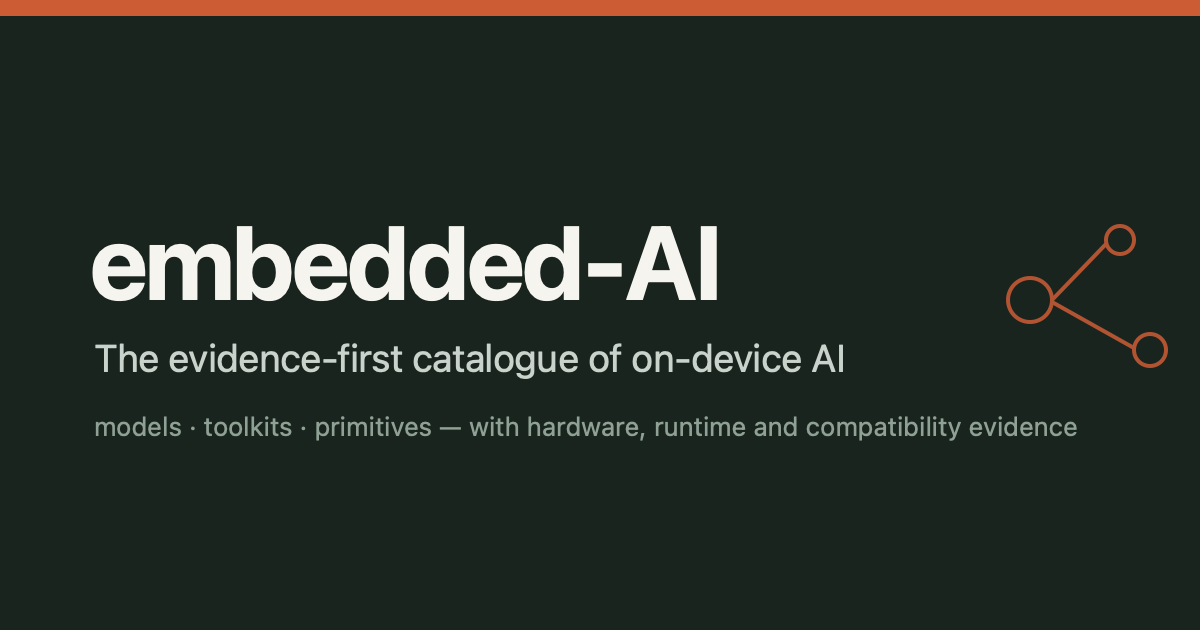
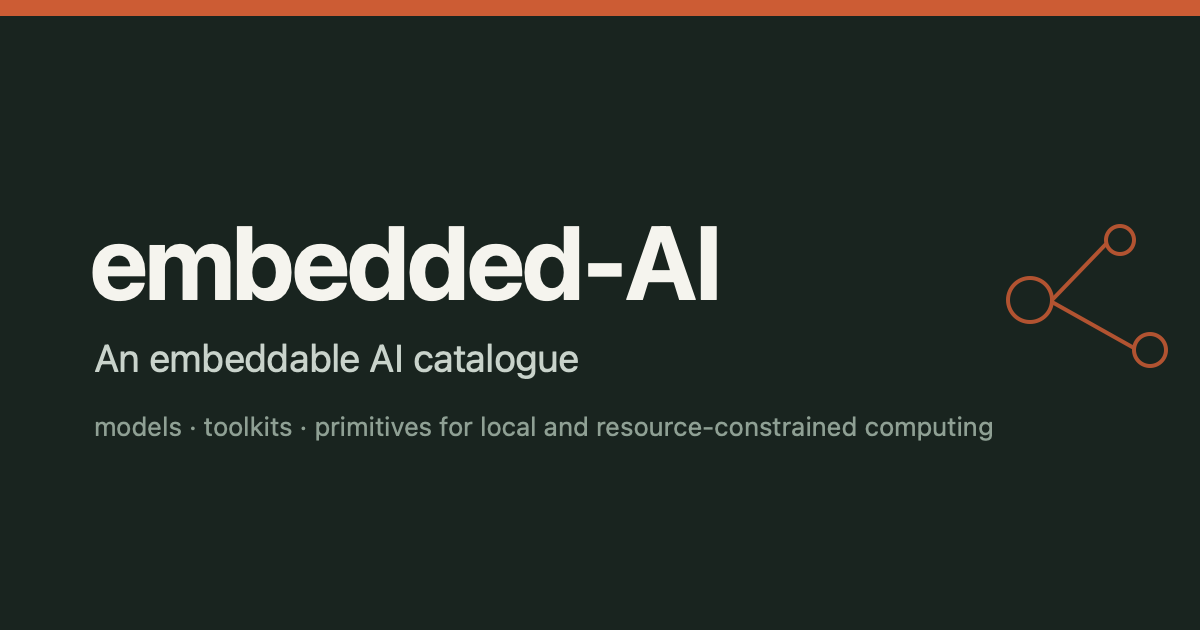
docs(site): reframe as an embeddable AI catalogue
- Remove the README banner and the 'evidence/hardware-validated' framing and
  the reproduced badge; lead with a plain 'embeddable AI catalogue' tagline.
- Open the live link in a new tab (target=_blank, rel=noopener).
- Neutralise the site meta description, JSON-LD, llms.txt summary and the OG
  card text.

Changed region(s): [[0.0617, 0.5429, 0.4625, 0.6032], [0.37, 0.6635, 0.8942, 0.6937], [0.4933, 0.5429, 0.7092, 0.6032]]

diff --git a/site/index.html b/site/index.html
@@ -1,7 +1,7 @@
 <!doctype html>
 <html lang="en"><head><meta charset="utf-8"><meta name="viewport" content="width=device-width,initial-scale=1">
 <title>embedded-AI — catalogue of on-device and embedded AI models</title>
-<meta name="description" content="An evidence-first, machine-readable catalogue of on-device and embedded AI models, toolkits and non-AI primitives across dozens of domains, with runtime, licence and compatibility evidence. Unknown values stay unknown.">
+<meta name="description" content="A machine-readable catalogue of embeddable AI: models, toolkits and non-AI primitives for local and resource-constrained computing. Unknown values stay unknown.">
 <meta name="robots" content="index,follow,max-snippet:-1,max-image-preview:large">
 <link rel="canonical" href="https://powerpuff-kitty.github.io/embedded-AI/">
 <link rel="alternate" type="application/json" href="data/catalog.json" title="Catalogue JSON">
@@ -23,7 +23,7 @@
 <meta http-equiv="Content-Security-Policy" content="default-src 'self'; script-src 'self'; style-src 'self'; connect-src 'self'; img-src 'self' data:; object-src 'none'; base-uri 'none'">
 <link rel="icon" href="logo.svg" type="image/svg+xml">
 <link rel="stylesheet" href="style.css">
-<script type="application/ld+json">{"@context":"https://schema.org","@graph":[{"@type":"WebSite","@id":"https://powerpuff-kitty.github.io/embedded-AI/#website","url":"https://powerpuff-kitty.github.io/embedded-AI/","name":"embedded-AI","description":"Evidence-first catalogue of on-device and embedded AI models, toolkits and non-AI primitives.","inLanguage":"en"},{"@type":"Dataset","@id":"https://powerpuff-kitty.github.io/embedded-AI/#dataset","name":"embedded-AI catalogue","description":"Machine-readable catalogue of on-device AI models, toolkits and primitives with runtime, licence and compatibility evidence. Unknown values are explicit.","url":"https://powerpuff-kitty.github.io/embedded-AI/","isAccessibleForFree":true,"license":"https://github.com/powerpuff-kitty/embedded-AI","keywords":["embedded AI","on-device ML","edge AI","TinyML","model catalogue"],"distribution":[{"@type":"DataDownload","encodingFormat":"application/json","contentUrl":"https://powerpuff-kitty.github.io/embedded-AI/data/catalog.json"}]}]}</script>
+<script type="application/ld+json">{"@context":"https://schema.org","@graph":[{"@type":"WebSite","@id":"https://powerpuff-kitty.github.io/embedded-AI/#website","url":"https://powerpuff-kitty.github.io/embedded-AI/","name":"embedded-AI","description":"A machine-readable catalogue of embeddable AI models, toolkits and non-AI primitives.","inLanguage":"en"},{"@type":"Dataset","@id":"https://powerpuff-kitty.github.io/embedded-AI/#dataset","name":"embedded-AI catalogue","description":"Machine-readable catalogue of embeddable AI models, toolkits and primitives for local and resource-constrained computing. Unknown values are explicit.","url":"https://powerpuff-kitty.github.io/embedded-AI/","isAccessibleForFree":true,"license":"https://github.com/powerpuff-kitty/embedded-AI","keywords":["embeddable AI","on-device ML","edge AI","TinyML","model catalogue"],"distribution":[{"@type":"DataDownload","encodingFormat":"application/json","contentUrl":"https://powerpuff-kitty.github.io/embedded-AI/data/catalog.json"}]}]}</script>
 </head>
 <body>
 <a class="skip" href="#entries" data-i18n="ui.skip">Skip to results</a>

diff --git a/scripts/build-site.ts b/scripts/build-site.ts
@@ -37,7 +37,7 @@ await fs.writeFile('dist/.nojekyll','');
 const BASE='https://powerpuff-kitty.github.io/embedded-AI';
 const domains=[...new Set(entries.map(e=>e.domain))].sort();
 const upstreamOf=(e:any)=>e.links?.model||e.links?.repository||e.links?.homepage||e.links?.paper||'';
-const llms=['# embedded-AI','',`> Evidence-first catalogue of on-device and embedded AI models, toolkits and non-AI primitives. ${entries.length} entries across ${domains.length} domains. Unknown data stays unknown; compatibility is only claimed with a stored measurement.`,'','## Data','',`- [catalog.json](${BASE}/data/catalog.json): full catalogue and benchmark records`,'- [catalog.full.json](https://github.com/powerpuff-kitty/embedded-AI/blob/main/generated/catalog.full.json): generated full metadata','- [README](https://github.com/powerpuff-kitty/embedded-AI): human-facing catalogue and YAML sources','','## Pages','',`- [Explorer](${BASE}/): offline need matcher, filters and comparison`,`- [Skeleton replay](${BASE}/skeleton.html): local pose JSONL replay`,'','## Domains','',...domains.map(d=>`- ${d}`),''].join('\n');
+const llms=['# embedded-AI','',`> A machine-readable catalogue of embeddable AI: models, toolkits and non-AI primitives for local and resource-constrained computing. ${entries.length} entries across ${domains.length} domains. Unknown data stays unknown.`,'','## Data','',`- [catalog.json](${BASE}/data/catalog.json): full catalogue and benchmark records`,'- [catalog.full.json](https://github.com/powerpuff-kitty/embedded-AI/blob/main/generated/catalog.full.json): generated full metadata','- [README](https://github.com/powerpuff-kitty/embedded-AI): human-facing catalogue and YAML sources','','## Pages','',`- [Explorer](${BASE}/): offline need matcher, filters and comparison`,`- [Domains](${BASE}/domains.html): all domains with counts`,`- [Skeleton replay](${BASE}/skeleton.html): local pose JSONL replay`,'','## Domains','',...domains.map(d=>`- ${d}`),''].join('\n');
 await fs.writeFile('dist/llms.txt',llms);
 const full=['# embedded-AI — full catalogue','',`> ${entries.length} entries. Generated from YAML; unknown values are explicit; no compatibility is claimed without a stored benchmark.`,'',...entries.map((e:any)=>[`## ${e.name} (${e.id})`,`- domain: ${e.domain}`,`- kind: ${kindOf(e)} / ${e.usage?.mode ?? 'unknown'}`,`- tasks: ${(e.tasks??[]).join(', ')}`,`- licence: ${e.license?.code} / ${e.license?.weights}`,`- compatibility: ${(e.compatibility??[]).map((c:any)=>`${c.target}: ${c.status}`).join('; ')||'unknown'}`,`- upstream: ${upstreamOf(e)}`,`- page: ${BASE}/c/${e.id}.html`].join('\n'))].join('\n\n')+'\n';
 await fs.writeFile('dist/llms-full.txt',full);

diff --git a/README.md b/README.md
@@ -1,40 +1,34 @@
 # embedded-AI
 
-<p align="center"><img src="assets/banner.svg" alt="embedded-AI — the evidence-first catalogue of on-device AI" width="100%"></p>
-
-> The evidence-first catalogue of AI you can actually run on-device.
+> An embeddable AI catalogue — models, toolkits and non-AI primitives for local and resource-constrained computing.
 
 [![Live explorer](https://img.shields.io/badge/live_explorer-open-2ea44f?logo=githubpages&logoColor=white)](https://powerpuff-kitty.github.io/embedded-AI/)
 [![pages](https://img.shields.io/github/actions/workflow/status/powerpuff-kitty/embedded-AI/pages.yml?label=pages)](https://github.com/powerpuff-kitty/embedded-AI/actions/workflows/pages.yml)
 [![catalog](https://img.shields.io/github/actions/workflow/status/powerpuff-kitty/embedded-AI/catalog.yml?label=validate)](https://github.com/powerpuff-kitty/embedded-AI/actions/workflows/catalog.yml)
 [![recipes](https://img.shields.io/github/actions/workflow/status/powerpuff-kitty/embedded-AI/recipes.yml?label=recipes)](https://github.com/powerpuff-kitty/embedded-AI/actions/workflows/recipes.yml)
 [![entries](https://img.shields.io/badge/dynamic/json?color=blue&label=entries&query=%24.total&url=https%3A%2F%2Fraw.githubusercontent.com%2Fpowerpuff-kitty%2Fembedded-AI%2Fmain%2Fgenerated%2Fcoverage.json)](generated/coverage.json)
-[![reproduced](https://img.shields.io/badge/dynamic/json?color=brightgreen&label=reproduced&query=%24.reproduced_entries&url=https%3A%2F%2Fraw.githubusercontent.com%2Fpowerpuff-kitty%2Fembedded-AI%2Fmain%2Fgenerated%2Fcoverage.json)](benchmarks/README.md)
 
-**Explore it live — https://powerpuff-kitty.github.io/embedded-AI/** · no install, no account, no tracking.
+**Explore it live** — <a href="https://powerpuff-kitty.github.io/embedded-AI/" target="_blank" rel="noopener">powerpuff-kitty.github.io/embedded-AI</a> · no install, no account, no tracking.
 
 ---
 
 ## What is this?
 
-**embedded-AI is a machine-readable catalogue of AI/ML models, toolkits and non-AI primitives for local and resource-constrained computing** — from microcontrollers and neuromorphic chips to phones, single-board computers and servers.
+**embedded-AI is a machine-readable catalogue of embeddable AI** — models, toolkits and non-AI primitives for local and resource-constrained computing, from microcontrollers and phones to single-board computers and servers.
 
-It exists to do one job well: help you find the right component for a device, and show you the evidence behind every claim. Each entry is a small YAML file; the tables below, the JSON exports and the web explorer are all generated from them.
+Each entry is a small YAML file. The tables below, the JSON exports, the search and need-matching CLIs, and the web explorer are all generated from those files. Fields that are not known are left unknown rather than guessed.
 
-## Why it is different
+## How it is organised
 
-- **Evidence first.** A target is only `reproduced` when a benchmark record exists for the exact hardware. Parameter counts and edge marketing never establish fit.
-- **Unknowns stay unknown.** Missing RAM, latency, power, licence or compatibility is shown as unknown — never invented or inferred from model size.
-- **Labelled honestly.** Pretrained models, models that need training, and companion tools are separated, with code and weights licences recorded independently.
-- **One source, many faces.** The same YAML drives the README table, the JSON exports, the search/need CLIs, and a fully offline web explorer with per-entry pages.
+- **Kinds:** `model`, `collection`, `pipeline`, `toolkit` and `primitive` are labelled separately.
+- **Use:** `pretrained`, `requires-training` and `companion` are recorded per entry.
+- **Domains:** 51 areas, from vision and audio to genomics, gaming and space.
+- **One source, many faces:** the same YAML drives the README table, the JSON exports and the explorer.
 
 ## Quick start
 
 **Use the live explorer** — nothing to install:
-
-```text
-https://powerpuff-kitty.github.io/embedded-AI/
-```
+<a href="https://powerpuff-kitty.github.io/embedded-AI/" target="_blank" rel="noopener">https://powerpuff-kitty.github.io/embedded-AI/</a>
 
 **Or work locally:**
 
@@ -54,21 +48,8 @@ Edit YAML, not generated tables. On `main`, CI regenerates and commits only cata
 | | |
 |---|---|
 | **365 entries** | models, collections, pipelines, toolkits and primitives |
-| **51 domains** | from vision and audio to neuromorphic, genomics and space |
-| **10 hardware profiles** | MCUs, SBCs, NPUs and neuromorphic processors |
-| **3 reproduced benchmarks** | measured on exact hosts, with raw latency samples |
-
-## Compatibility levels
-
-Compatibility is recorded per hardware target and is independent of popularity or file size.
-
-| Level | Meaning |
-|---|---|
-| `reproduced` | A benchmark record exists in `benchmarks/` for the exact target |
-| `reported` | An upstream or vendor source documents the target (evidence URL required) |
-| `theoretical` | Plausibly compatible, but not demonstrated |
-| `unsupported` | Known not to work |
-| `unknown` | Not assessed — the honest default |
+| **51 domains** | vision, audio, language, robotics, gaming, genomics and more |
+| **5 kinds** | model · collection · pipeline · toolkit · primitive |
 
 ## Domains
 
@@ -83,7 +64,6 @@ Compatibility is recorded per hardware target and is independent of popularity o
 - [Design system](docs/DESIGN.md) — tokens and components
 - [Taxonomy](docs/TAXONOMY.md) — how components are classified
 - [Building small models](docs/BUILDING-SMALL-MODELS.md) — a practical workflow
-- [Getting hardware evidence](docs/HARDWARE-DATA.md) — how to produce reproducible benchmarks
 - [Dependency & security review](docs/SECURITY-REVIEW-V02.md)
 - [Contributing](CONTRIBUTING.md) — entry rules and tooling
 
